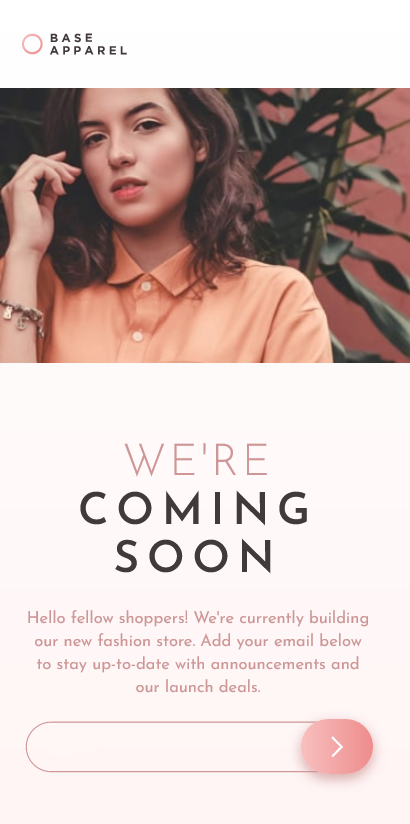
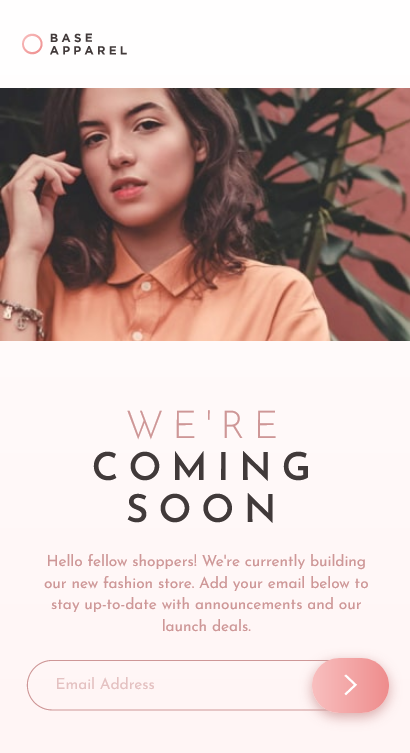
height adjustments

diff --git a/scss/style.scss b/scss/style.scss
@@ -4,6 +4,7 @@
 
 body {
   min-height: 100vh;
+  background:linear-gradient(hsl(0, 0%, 100%), hsl(0, 100%, 98%));
   display: grid;
   place-items: center;
   font-family: "Josefin Sans", serif;
@@ -11,11 +12,13 @@ body {
 
 .main {
   .container {
+    overflow: hidden;
+    // max-width: 375px;
     width: 100vw;
-    max-width: 375px;
     background: linear-gradient(hsl(0, 0%, 100%), hsl(0, 100%, 98%));
     min-height: 100vh;
-    padding-bottom: 50px;
+    height:auto;
+    padding-bottom: 40px;
 
     .logo {
       margin-top: 30px;
@@ -27,48 +30,50 @@ body {
     .hero-one {
       margin: 30px 0 60px 0;
       width: 100%;
-      height: 250px;
-      background-image: url(/images/hero-mobile.jpg);
-      background-repeat: no-repeat;
+      height: 230px;
+      background: url(/images/hero-mobile.jpg) no-repeat;
+      background-size: cover;
     }
 
     .body_text {
-      max-width: 360px;
+      // max-width: 360px;
       text-align: center;
       display: flex;
       flex-direction: column;
       align-items: center;
 
       &__title {
-        margin-top: 10px;
+        // margin-top: 10px;
         width: 70%;
-        font-size: 40px;
+        font-size: 35px;
         font-weight: 350;
         font-family: inherit;
         letter-spacing: 3px;
         line-height: 1.1;
         span:first-of-type {
           color: $washedRed;
+          letter-spacing: 8px;
         }
         span:last-of-type {
           font-weight: 600;
-          letter-spacing: 7px;
+          letter-spacing: 9px;
           color: $greyRed;
         }
       }
 
       &__description {
-        margin: 20px 0;
-        width: 87%;
+        margin: 16px 0 20px 0;
+        width: 80%;
         line-height: 1.4;
         color: $washedRed;
         font-family: inherit;
+        font-size: 14px;
       }
     }
 
     .form {
       .input {
-        max-width: 360px;
+        // max-width: 360px;
         display: flex;
         justify-content: center;
         position: relative;
@@ -91,6 +96,7 @@ body {
           &::placeholder {
             color: $washedRed;
             font-family: inherit;
+            font-size: 14px;
           }
         }
 
@@ -107,7 +113,7 @@ body {
             rgba(248, 191, 191, 1) 0%,
             rgba(238, 140, 140, 1) 100%
           );
-          width: 65px;
+          width: 70px;
           padding: 15px;
           cursor: pointer;
           box-shadow: 0px 4px 10px rgba(206, 151, 151, 0.8);
@@ -130,7 +136,7 @@ body {
         .error_icon {
           display: none;
           position: absolute;
-          right: 90px;
+          right: 100px;
           bottom: 10px;
         }
       }
@@ -145,19 +151,18 @@ body {
 @media screen and (min-width: 1200px) {
   .main {
     display: flex;
+    align-items: center;
+    background-color:linear-gradient(hsl(0, 0%, 100%), hsl(0, 100%, 98%)); ;
     width: 100vw;
+    max-width:1440px;
+    max-height:80vh;
 
     .container {
-      padding: 0;
-      margin: 0;
       padding-left: 100px;
       max-width: 100vw;
       width: 1700px;
       background: url(/images/bg-pattern-desktop.svg) no-repeat center center ;
-    //   background-repeat: no-repeat;
       background-size: cover;
-    //   height:100%;
-    //   overflow: hidden;
 
       .logo {
         padding : {
@@ -224,4 +229,11 @@ body {
       }
     }
   }
+}
+
+
+@media screen and (min-width: 1500px){
+.body_text__description{
+  padding:30px 0;
+}
 }

diff --git a/css/style.css b/css/style.css
@@ -45,17 +45,19 @@ h6 {
 
 body {
   min-height: 100vh;
+  background: linear-gradient(hsl(0deg, 0%, 100%), hsl(0deg, 100%, 98%));
   display: grid;
   place-items: center;
   font-family: "Josefin Sans", serif;
 }
 
 .main .container {
+  overflow: hidden;
   width: 100vw;
-  max-width: 375px;
   background: linear-gradient(hsl(0deg, 0%, 100%), hsl(0deg, 100%, 98%));
   min-height: 100vh;
-  padding-bottom: 50px;
+  height: auto;
+  padding-bottom: 40px;
 }
 .main .container .logo {
   margin-top: 30px;
@@ -67,21 +69,19 @@ body {
 .main .container .hero-one {
   margin: 30px 0 60px 0;
   width: 100%;
-  height: 250px;
-  background-image: url(/images/hero-mobile.jpg);
-  background-repeat: no-repeat;
+  height: 230px;
+  background: url(/images/hero-mobile.jpg) no-repeat;
+  background-size: cover;
 }
 .main .container .body_text {
-  max-width: 360px;
   text-align: center;
   display: flex;
   flex-direction: column;
   align-items: center;
 }
 .main .container .body_text__title {
-  margin-top: 10px;
   width: 70%;
-  font-size: 40px;
+  font-size: 35px;
   font-weight: 350;
   font-family: inherit;
   letter-spacing: 3px;
@@ -89,21 +89,22 @@ body {
 }
 .main .container .body_text__title span:first-of-type {
   color: hsl(0deg, 36%, 70%);
+  letter-spacing: 8px;
 }
 .main .container .body_text__title span:last-of-type {
   font-weight: 600;
-  letter-spacing: 7px;
+  letter-spacing: 9px;
   color: hsl(0deg, 6%, 24%);
 }
 .main .container .body_text__description {
-  margin: 20px 0;
-  width: 87%;
+  margin: 16px 0 20px 0;
+  width: 80%;
   line-height: 1.4;
   color: hsl(0deg, 36%, 70%);
   font-family: inherit;
+  font-size: 14px;
 }
 .main .container .form .input {
-  max-width: 360px;
   display: flex;
   justify-content: center;
   position: relative;
@@ -122,6 +123,7 @@ body {
 .main .container .form .input_field::placeholder {
   color: hsl(0deg, 36%, 70%);
   font-family: inherit;
+  font-size: 14px;
 }
 .main .container .form .input_button {
   border-radius: 30px;
@@ -133,7 +135,7 @@ body {
   justify-content: center;
   border: none;
   background: linear-gradient(90deg, rgb(248, 191, 191) 0%, rgb(238, 140, 140) 100%);
-  width: 65px;
+  width: 70px;
   padding: 15px;
   cursor: pointer;
   box-shadow: 0px 4px 10px rgba(206, 151, 151, 0.8);
@@ -153,7 +155,7 @@ body {
 .main .container .form .input .error_icon {
   display: none;
   position: absolute;
-  right: 90px;
+  right: 100px;
   bottom: 10px;
 }
 .main .aside {
@@ -163,11 +165,13 @@ body {
 @media screen and (min-width: 1200px) {
   .main {
     display: flex;
+    align-items: center;
+    background-color: linear-gradient(hsl(0deg, 0%, 100%), hsl(0deg, 100%, 98%));
     width: 100vw;
+    max-width: 1440px;
+    max-height: 80vh;
   }
   .main .container {
-    padding: 0;
-    margin: 0;
     padding-left: 100px;
     max-width: 100vw;
     width: 1700px;
@@ -222,5 +226,10 @@ body {
     min-height: 100vh;
     width: 100%;
     object-fit: cover;
+  }
+}
+@media screen and (min-width: 1500px) {
+  .body_text__description {
+    padding: 30px 0;
   }
 }/*# sourceMappingURL=style.css.map */
